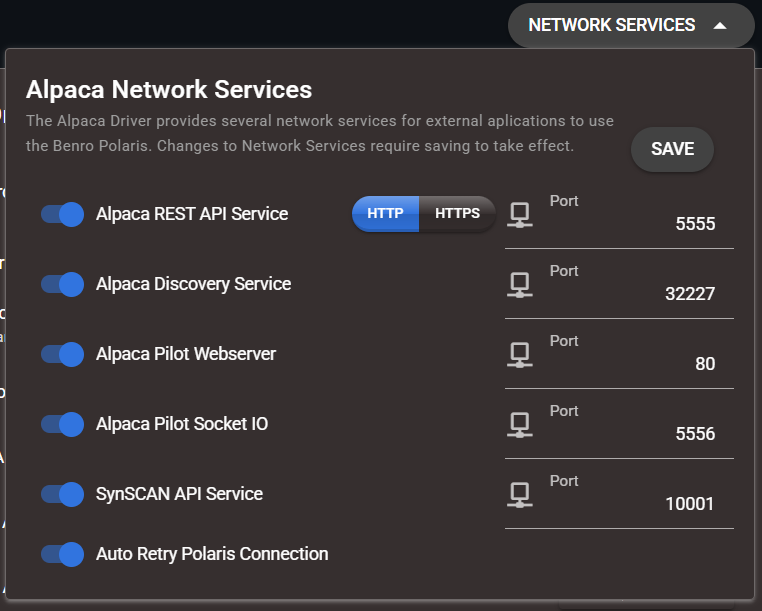
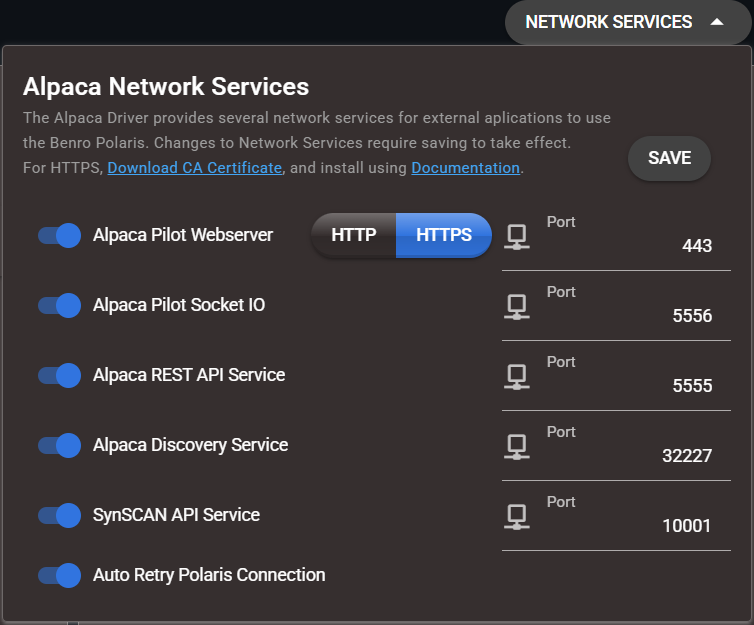
fix(https): always show Doload CA Certificate, and update documentation on how to enable HTTPS

Changed region(s): [[0.0, 0.0, 1.0, 1.0], [0.8541, 0.2177, 0.9151, 0.311]]

diff --git a/pilot/src/components/NetworkSettings.vue b/pilot/src/components/NetworkSettings.vue
@@ -8,7 +8,7 @@
             <div class="col text-caption text-grey-6 q-pb-md">
             The Alpaca Driver provides several network services for external aplications to use the Benro Polaris. Changes to Network Services require saving to take effect. 
             <span>
-                <br>For HTTPS, <a target="_blank" rel="noopener" href="/alpaca_pilot_ca.crt">Download CA Certificate</a>, 
+                <br>For HTTPS, <a href="/alpaca_pilot_ca.crt">Download CA Certificate</a>, 
                 and install using <a target="_blank" rel="noopener" href="https://github.com/ogecko/alpaca-benro-polaris/blob/dev2_2/docs/pilot.md#g-using-alpaca-pilot-over-https">Documentation</a>.           
             </span>
             </div>

diff --git a/docs/pilot.md b/docs/pilot.md
@@ -232,19 +232,12 @@ Additionally, this dialog allows you to modify the Driver’s behavior regarding
 
 By default, Alpaca Pilot runs as an HTTP-based Single Page Application (SPA). As a result, your browser may display the site as **“Not Secure”** and restrict certain features such as location access and clipboard integration.
 
-Starting with version 2.2, Alpaca Pilot supports HTTPS, allowing secure browser access and full functionality.
-
-#### Enable HTTPS in Alpaca Pilot
-
-1. Open the **Alpaca Pilot Connect** page.
-2. Open the **Network Services** dropdown.
-3. Select **HTTPS**, then click **Save**.
-4. The driver will automatically restart with HTTPS enabled.
+Starting with version 2.2, Alpaca Pilot supports HTTPS, allowing secure browser access and full functionality. When the Driver starts it will create self-signed certificates that are used for secure access. To use HTTPS you will need to download and install the CA Certificate and enable HTTPS in Alpaca Pilot.
 
 #### Download the CA Certificate
 
-1. Refresh your browser after the restart.
-2. Return to the **Network Services** dialog.
+1. Open the **Alpaca Pilot Connect** page.
+2. Open the **Network Services** dropdown dialog.
 3. Click **Download CA Certificate**.
 
 #### Install the CA Certificate on Windows
@@ -252,6 +245,7 @@ Starting with version 2.2, Alpaca Pilot supports HTTPS, allowing secure browser 
 1. Open the downloaded `alpaca_pilot_ca.crt` file.
 2. Click **Install Certificate**.
 3. Select **Local Machine**, then click **Next**.
+4. Accept **User Access Control**, click **Yes**.
 4. Choose **Place all certificates in the following store**, then click **Browse**.
 5. Select **Trusted Root Certification Authorities**, then click **OK**.
 6. Click **Next**, then **Finish**.
@@ -264,7 +258,7 @@ Starting with version 2.2, Alpaca Pilot supports HTTPS, allowing secure browser 
 4. Expand the **Trust** section and set **When using this certificate** to **Always Trust**.
 5. Close the dialog and enter your password to confirm the changes.
 
-#### Restart Your Browser
+#### Restart Your Browser to pickup the new CA Certificate
 
 * **Chrome:** Navigate to `chrome://restart`
 * **Firefox:**
@@ -274,6 +268,13 @@ Starting with version 2.2, Alpaca Pilot supports HTTPS, allowing secure browser 
   3. Set the value to `true`
   4. Restart Firefox
 
+#### Enable HTTPS in Alpaca Pilot
+
+1. Open the **Alpaca Pilot Connect** page.
+2. Open the **Network Services** dropdown.
+3. Select **HTTPS**, then click **Save**.
+4. The Driver will restart with HTTPS enabled.
+5. Alpaca Pilot will detect the restart and redirect to HTTPS.
 
 
 <br>
